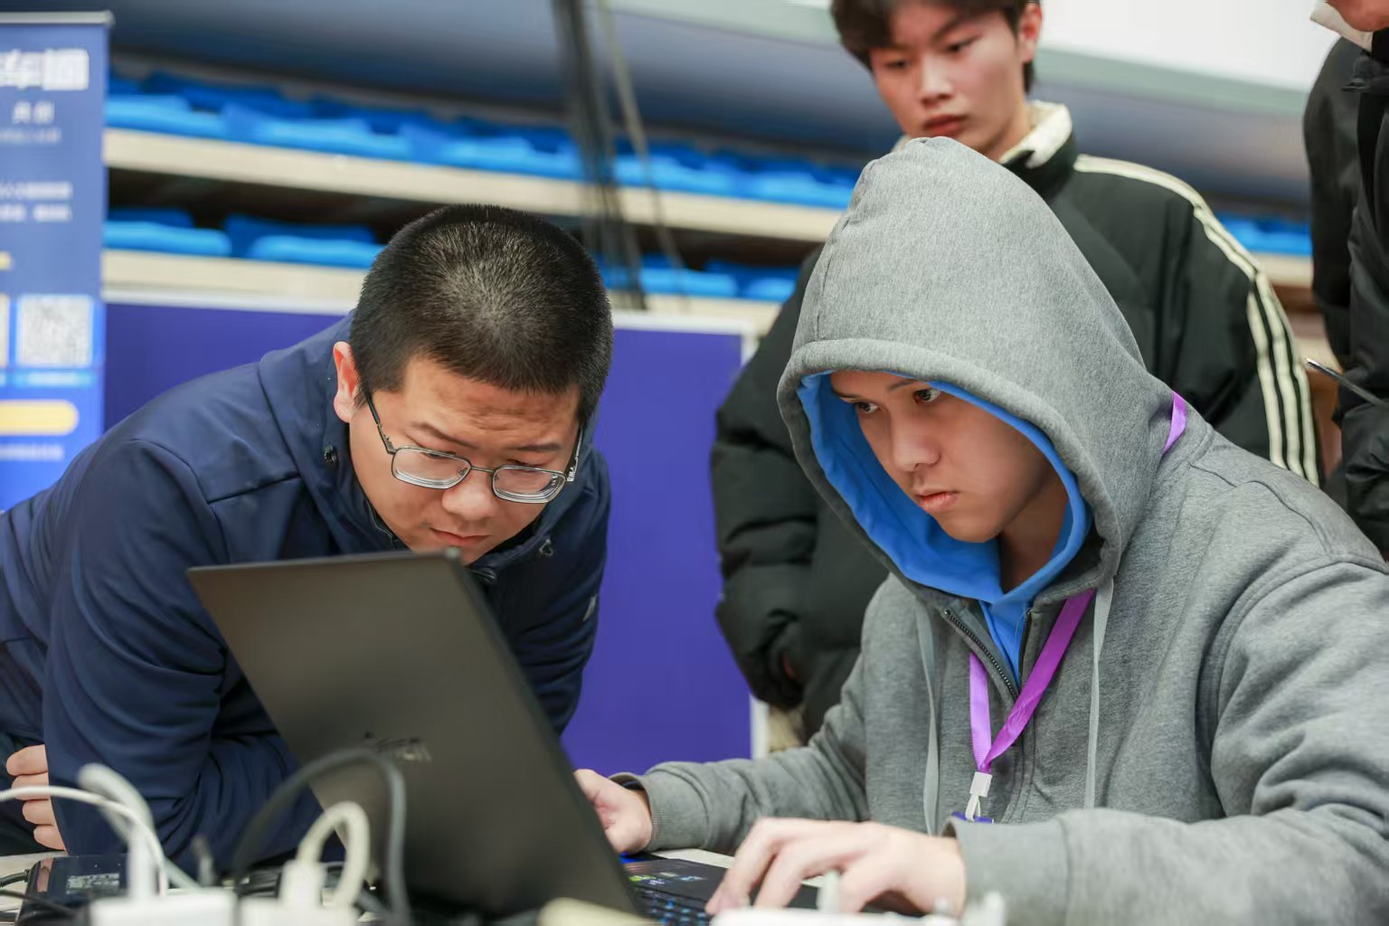
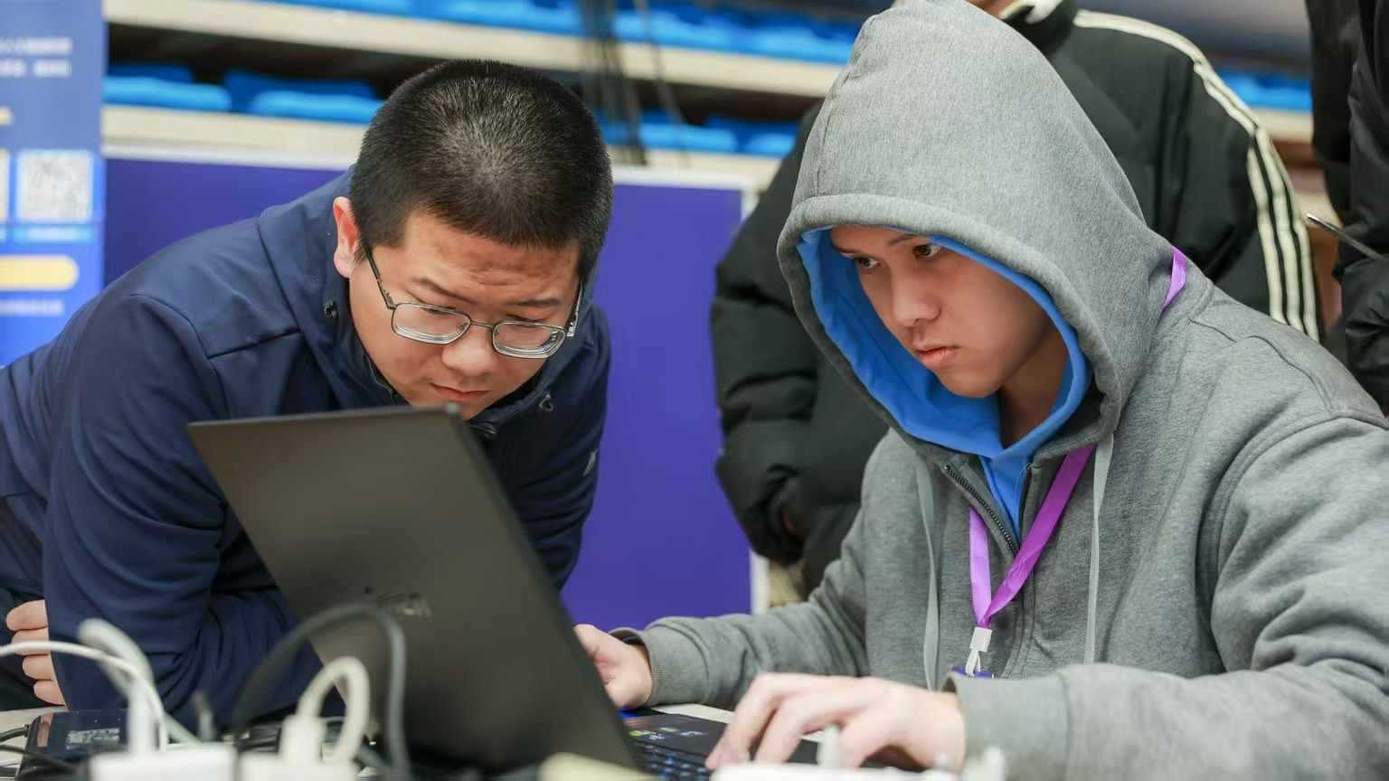
fix:更新英文；缩小图片；优化项目详情页

diff --git a/src/sections/Projects.tsx b/src/sections/Projects.tsx
@@ -91,7 +91,7 @@ const projects: Project[] = [
     subtitle: 'Autonomous Patrol Robot for Complex Environments',
     description: '集侦、识、打功能于一体的狭窄空间自主巡防机器人，优化通信协议与底盘控制。',
     descriptionEn: 'Autonomous patrol robot for narrow spaces integrating detection, recognition, and attack functions, with optimized communication protocols and chassis control.',
-    image: '/project-portfolio/project16.png',
+    image: '/project-portfolio/project16.jpg',
     tags: ['Robotics', 'STM32', 'Control Algorithm', 'Communication Protocol'],
     category: '竞赛项目',
     year: '2024',
@@ -113,7 +113,7 @@ const projects: Project[] = [
     subtitle: 'Maze Battlefield Navigation System',
     description: '基于ROS2和OpenCV的模拟哨兵机器人视觉导航系统，实现动态迷宫中的目标识别、密码破解与自主路径规划。',
     descriptionEn: 'Vision-based navigation system for simulated sentinel robots based on ROS2 and OpenCV, achieving target recognition, password cracking, and autonomous path planning in dynamic mazes.',
-    image: '/project-portfolio/project14.png',
+    image: '/project-portfolio/project14.jpg',
     tags: ['Autonomous Navigation', 'ROS2', 'Computer Vision'],
     category: '个人项目',
     year: '2025',
@@ -122,9 +122,9 @@ const projects: Project[] = [
     demoUrl: '/project-portfolio/project14-demo.mp4',
     details: {
       challenge: '在随机生成的RM迷宫战场中，哨兵机器人需在有限视野条件下完成多阶段任务：识别并击毁巡逻敌方步兵获取密码片段，通过虚拟串口按特定协议（帧头0xAA、帧尾0xBB）收发密码数据，导航至中央蓝色区域解除敌方基地无敌状态，最终摧毁基地。困难模式下视野受限且地图未知，要求实时建图与动态避障。',
-      challengeEn: 'In randomly generated RM maze battlefield, sentinel robots need to complete multi-stage tasks under limited field of view: identify and destroy patrolling enemy infantry to obtain password fragments, send and receive password data through virtual serial port according to specific protocol (frame header 0xAA, frame tail 0xBB), navigate to central blue area to解除敌方基地无敌状态, and finally destroy the base. In hard mode, field of view is limited and map is unknown, requiring real-time mapping and dynamic obstacle avoidance.',
+      challengeEn: 'In randomly generated RM maze battlefield, sentinel robots need to complete multi-stage tasks under limited field of view: identify and destroy patrolling enemy infantry to obtain password fragments, send and receive password data through virtual serial port according to specific protocol (frame header 0xAA, frame tail 0xBB), navigate to central blue area to remove the enemy base's invincibility status, and finally destroy the base. In hard mode, field of view is limited and map is unknown, requiring real-time mapping and dynamic obstacle avoidance.',
       solution: '采用分层导航架构：使用OpenCV进行视觉感知与目标识别，结合Nav2框架实现实时建图；全局路径规划采用A*算法确保最优路径，自研局部控制器处理动态避障与巡逻敌人跟踪；通过串口通信模块完成与判题机的密码交互协议，实现密码片段的自动拼接与验证；集成ROS2话题机制实现图像接收与发射控制指令的发送。',
-      solutionEn: 'Adopted hierarchical navigation architecture: used OpenCV for visual perception and target recognition, combined with Nav2 framework to achieve real-time mapping; global path planning used A* algorithm to ensure optimal path, self-developed local controller handled dynamic obstacle avoidance and patrol enemy tracking; completed password interaction protocol with judging machine through serial communication module,实现密码片段的自动拼接与验证；集成ROS2话题机制实现图像接收与发射控制指令的发送。',
+      solutionEn: 'Adopted hierarchical navigation architecture: used OpenCV for visual perception and target recognition, combined with Nav2 framework to achieve real-time mapping; global path planning used A* algorithm to ensure optimal path, self-developed local controller handled dynamic obstacle avoidance and patrol enemy tracking; completed password interaction protocol with judging machine through serial communication module, achieve automatic concatenation and verification of password fragments; integrate the ROS2 topic mechanism to enable image reception and transmission of control commands.',
       technologies: ['ROS2', 'OpenCV', 'Nav2', 'A* Algorithm', 'C++', 'Serial Communication'],
       results: '困难模式成功达成目标，实现有限视野下的实时建图与自主导航，完成敌方步兵识别、密码破解及基地摧毁全流程任务，系统稳定通过有限视野迷宫挑战。',
       resultsEn: 'Successfully achieved goals in hard mode, realized real-time mapping and autonomous navigation under limited field of view, completed full-process tasks of enemy infantry identification, password cracking, and base destruction, and the system stably passed the limited field of view maze challenge.'
@@ -136,7 +136,7 @@ const projects: Project[] = [
     subtitle: 'Synthetic Data Generation Pipeline',
     description: '基于Godot引擎的自动化训练数据集生成工具，实现赛场环境的域随机化、视觉可见性校验与无人干预的自动标注导出。',
     descriptionEn: 'Automated training dataset generation tool based on Godot engine, achieving domain randomization of赛场环境, visual visibility verification, and unmanned automatic annotation export.',
-    image: '/project-portfolio/project15.png',
+    image: '/project-portfolio/project15.jpg',
     tags: ['Godot', 'Computer Vision', 'Synthetic Data', 'Automation'],
     category: '个人项目',
     year: '2024',
@@ -203,7 +203,7 @@ const projects: Project[] = [
     subtitle: 'Phigros Auto-Play Vision System',
     description: '基于ROS2和OpenCV开发Phigros音游（模拟器）自动打歌系统，实现音符检测、判定线识别与精准点击输出。',
     descriptionEn: 'Phigros rhythm game (simulator) auto-play system developed based on ROS2 and OpenCV, achieving note detection, judgment line recognition, and precise click output.',
-    image: '/project-portfolio/project13.png',
+    image: '/project-portfolio/project13.jpg',
     tags: ['Computer Vision', 'ROS2', 'OpenCV', 'C++'],
     category: '个人项目',
     year: '2024',
@@ -230,7 +230,7 @@ const projects: Project[] = [
     category: '竞赛项目',
     year: '2024',
     githubUrl: 'https://github.com/3126872157/dian_sai',
-    demoUrl: '/project-portfolio/project9-demo.gif',
+    videoUrl: '/project-portfolio/project9-demo.gif',
     details: {
       challenge: '在嵌入式平台（STM32+OpenMV）算力受限条件下，实现复杂背景下的实时指尖检测与棋盘定位；解决棋盘任意旋转导致的格点映射失真问题；设计高鲁棒性的人机交互逻辑，应对误触、遮挡等异常场景。',
       challengeEn: 'Achieving real-time fingertip detection and chessboard positioning in complex backgrounds under limited computing power conditions of embedded platforms (STM32+OpenMV); solving grid point mapping distortion problem caused by arbitrary chessboard rotation; designing highly robust human-computer interaction logic to handle abnormal scenarios such as false touches and occlusions.',
@@ -247,7 +247,7 @@ const projects: Project[] = [
     subtitle: 'Transmission Device Design',
     description: '综合运用机械设计知识完成传动装置总体设计、传动系统计算及减速器结构设计，培养工程实践能力和创新设计意识。',
     descriptionEn: 'Comprehensive use of mechanical design knowledge to complete overall transmission device design, transmission system calculation, and reducer structure design, cultivating engineering practice ability and innovative design awareness.',
-    image: '/project-portfolio/project12.png',
+    image: '/project-portfolio/project12.jpg',
     tags: ['Mechanical Design', 'Gear Transmission', 'AutoCAD', 'Engineering Drawing'],
     category: '课程项目',
     year: '2025',
@@ -288,7 +288,7 @@ const projects: Project[] = [
     subtitle: 'High-Speed Embedded Vision for Industrial AGV',
     description: '面向工业物流场景的轻量级AGV视觉定位解决方案，在资源极度受限的嵌入式平台上实现亚毫米级色环/色块识别与动态路径校准，满足高精度码垛与低功耗运行的双重约束。',
     descriptionEn: 'Lightweight AGV visual positioning solution for industrial logistics scenarios, achieving sub-millimeter level color ring/block recognition and dynamic path calibration on extremely resource-constrained embedded platforms, meeting the dual constraints of high-precision palletizing and low-power operation.',
-    image: '/project-portfolio/project6.png',
+    image: '/project-portfolio/project6.jpg',
     tags: ['Embedded Vision', 'AGV', 'Real-time System', 'Industrial Automation'],
     category: '竞赛项目',
     year: '2024',
@@ -310,7 +310,7 @@ const projects: Project[] = [
     subtitle: 'Pneumatic Soft Inchworm Robot for 3D Locomotion',
     description: '基于波纹管差分气压驱动的仿生软体机器人，突破传统一维/二维运动限制，实现三维空间内的多自由度灵活移动，用于狭窄管道检测与环境探索。',
     descriptionEn: 'Bio-inspired soft robot based on bellows differential pneumatic drive, breaking through traditional one-dimensional/two-dimensional movement limitations, achieving multi-degree-of-freedom flexible movement in three-dimensional space, used for narrow pipe detection and environmental exploration.',
-    image: '/project-portfolio/project5.png',
+    image: '/project-portfolio/project5.jpg',
     tags: ['Soft Robotics', 'Pneumatic Actuation', 'STM32', 'Embedded Control'],
     category: '科研项目',
     year: '2023',
@@ -638,126 +638,131 @@ const Projects = () => {
 
       {/* Project Detail Dialog */}
       <Dialog open={!!selectedProject} onOpenChange={() => setSelectedProject(null)}>
-        <DialogContent className="max-w-3xl bg-[#181818] border-white/10 text-white max-h-[90vh] overflow-y-auto">
+        <DialogContent className="max-w-5xl bg-[#181818] border-white/10 text-white max-h-[90vh] overflow-hidden">
           {selectedProject && (
-            <>
-              <DialogHeader>
-                <DialogTitle className="text-2xl font-bold text-white">
-                  {language === 'zh' ? selectedProject.title : selectedProject.subtitle}
-                </DialogTitle>
-                <DialogDescription className="text-white/60">
-                  {language === 'zh' ? selectedProject.subtitle : selectedProject.title}
-                </DialogDescription>
-              </DialogHeader>
-
-              {/* Image or Video */}
-              <div className="relative h-64 rounded-xl overflow-hidden mt-4">
-                {selectedProject.videoUrl ? (
-                  selectedProject.videoUrl.includes('youtube.com') || selectedProject.videoUrl.includes('youtu.be') ? (
-                    <iframe
-                      src={`https://www.youtube.com/embed/${selectedProject.videoUrl.split('v=')[1]?.split('&')[0] || selectedProject.videoUrl.split('/').pop()}`}
-                      title={selectedProject.title}
-                      className="w-full h-full"
-                      allow="accelerometer; autoplay; clipboard-write; encrypted-media; gyroscope; picture-in-picture"
-                      allowFullScreen
-                    />
+            <div className="flex flex-col lg:flex-row gap-6 p-4">
+              {/* Left side: Image/Video */}
+              <div className="lg:w-1/2">
+                <DialogHeader className="mb-4">
+                  <DialogTitle className="text-2xl font-bold text-white">
+                    {language === 'zh' ? selectedProject.title : selectedProject.subtitle}
+                  </DialogTitle>
+                  <DialogDescription className="text-white/60">
+                    {language === 'zh' ? selectedProject.subtitle : selectedProject.title}
+                  </DialogDescription>
+                </DialogHeader>
+                
+                <div className="relative h-80 rounded-xl overflow-hidden">
+                  {selectedProject.videoUrl ? (
+                    selectedProject.videoUrl.includes('youtube.com') || selectedProject.videoUrl.includes('youtu.be') ? (
+                      <iframe
+                        src={`https://www.youtube.com/embed/${selectedProject.videoUrl.split('v=')[1]?.split('&')[0] || selectedProject.videoUrl.split('/').pop()}`}
+                        title={selectedProject.title}
+                        className="w-full h-full"
+                        allow="accelerometer; autoplay; clipboard-write; encrypted-media; gyroscope; picture-in-picture"
+                        allowFullScreen
+                      />
+                    ) : (
+                      <video
+                        src={selectedProject.videoUrl}
+                        controls
+                        autoPlay
+                        loop
+                        muted
+                        className="w-full h-full object-cover"
+                      />
+                    )
                   ) : (
-                    <video
-                      src={selectedProject.videoUrl}
-                      controls
-                      autoPlay
-                      loop
-                      muted
+                    <img
+                      src={selectedProject.image}
+                      alt={selectedProject.title}
                       className="w-full h-full object-cover"
                     />
-                  )
-                ) : (
-                  <img
-                    src={selectedProject.image}
-                    alt={selectedProject.title}
-                    className="w-full h-full object-cover"
-                  />
-                )}
-                <div className="absolute inset-0 bg-gradient-to-t from-[#181818] to-transparent" />
-                
-                {/* Meta badges */}
-                <div className="absolute bottom-4 left-4 flex gap-2">
-                  <span className="px-3 py-1 glass-card rounded-lg text-sm text-[#00a67d]">
-                    {selectedProject.category}
-                  </span>
-                  <span className="px-3 py-1 glass-card rounded-lg text-sm text-white/80">
-                    {selectedProject.year}
-                  </span>
-                </div>
-              </div>
-
-              {/* Tags */}
-              <div className="flex flex-wrap gap-2 mt-4">
-                {selectedProject.tags.map((tag, index) => (
-                  <span
-                    key={index}
-                    className="px-3 py-1 text-xs bg-[#00a67d]/20 text-[#00a67d] rounded-full"
-                  >
-                    {tag}
-                  </span>
-                ))}
-              </div>
-
-              {/* Details */}
-              <div className="space-y-6 mt-6">
-                <div>
-                  <h4 className="text-lg font-semibold text-[#00a67d] mb-2">{language === 'zh' ? '项目挑战' : 'Project Challenge'}</h4>
-                  <p className="text-white/70">{language === 'zh' ? selectedProject.details.challenge : selectedProject.details.challengeEn}</p>
-                </div>
-                <div>
-                  <h4 className="text-lg font-semibold text-[#00a67d] mb-2">{language === 'zh' ? '解决方案' : 'Solution'}</h4>
-                  <p className="text-white/70">{language === 'zh' ? selectedProject.details.solution : selectedProject.details.solutionEn}</p>
-                </div>
-                <div>
-                  <h4 className="text-lg font-semibold text-[#00a67d] mb-2">{language === 'zh' ? '技术栈' : 'Technology Stack'}</h4>
-                  <div className="flex flex-wrap gap-2">
-                    {selectedProject.details.technologies.map((tech, index) => (
-                      <span
-                        key={index}
-                        className="px-3 py-1 text-sm bg-white/5 text-white/80 rounded-lg"
-                      >
-                        {tech}
-                      </span>
-                    ))}
+                  )}
+                  <div className="absolute inset-0 bg-gradient-to-t from-[#181818] to-transparent" />
+                  
+                  {/* Meta badges */}
+                  <div className="absolute bottom-4 left-4 flex gap-2">
+                    <span className="px-3 py-1 glass-card rounded-lg text-sm text-[#00a67d]">
+                      {selectedProject.category}
+                    </span>
+                    <span className="px-3 py-1 glass-card rounded-lg text-sm text-white/80">
+                      {selectedProject.year}
+                    </span>
                   </div>
                 </div>
-                <div>
-                  <h4 className="text-lg font-semibold text-[#00a67d] mb-2">{language === 'zh' ? '项目成果' : 'Results'}</h4>
-                  <p className="text-white/70" dangerouslySetInnerHTML={{ __html: language === 'zh' ? selectedProject.details.results : selectedProject.details.resultsEn }}></p>
-                </div>
               </div>
 
-              {/* Links */}
-              <div className="flex gap-4 mt-8">
-                {selectedProject.githubUrl && (
-                  <a
-                    href={selectedProject.githubUrl}
-                    target="_blank"
-                    rel="noopener noreferrer"
-                    className="flex items-center gap-2 px-6 py-2.5 bg-white/10 hover:bg-[#00a67d]/20 rounded-lg transition-colors"
-                  >
-                    <Github className="w-4 h-4" />
-                    <span>{language === 'zh' ? '查看代码' : 'View Code'}</span>
-                  </a>
-                )}
-                {selectedProject.demoUrl && (
-                  <a
-                    href={selectedProject.demoUrl}
-                    target="_blank"
-                    rel="noopener noreferrer"
-                    className="flex items-center gap-2 px-6 py-2.5 bg-[#00a67d] hover:bg-[#00d4aa] rounded-lg transition-colors"
-                  >
-                    <ExternalLink className="w-4 h-4" />
-                    <span>{language === 'zh' ? '在线演示' : 'Online Demo'}</span>
-                  </a>
-                )}
+              {/* Right side: Content (scrollable) */}
+              <div className="lg:w-1/2 overflow-y-auto max-h-[70vh] pr-2">
+                {/* Tags */}
+                <div className="flex flex-wrap gap-2 mb-6">
+                  {selectedProject.tags.map((tag, index) => (
+                    <span
+                      key={index}
+                      className="px-3 py-1 text-xs bg-[#00a67d]/20 text-[#00a67d] rounded-full"
+                    >
+                      {tag}
+                    </span>
+                  ))}
+                </div>
+
+                {/* Details */}
+                <div className="space-y-6">
+                  <div>
+                    <h4 className="text-lg font-semibold text-[#00a67d] mb-2">{language === 'zh' ? '项目挑战' : 'Project Challenge'}</h4>
+                    <p className="text-white/70">{language === 'zh' ? selectedProject.details.challenge : selectedProject.details.challengeEn}</p>
+                  </div>
+                  <div>
+                    <h4 className="text-lg font-semibold text-[#00a67d] mb-2">{language === 'zh' ? '解决方案' : 'Solution'}</h4>
+                    <p className="text-white/70">{language === 'zh' ? selectedProject.details.solution : selectedProject.details.solutionEn}</p>
+                  </div>
+                  <div>
+                    <h4 className="text-lg font-semibold text-[#00a67d] mb-2">{language === 'zh' ? '技术栈' : 'Technology Stack'}</h4>
+                    <div className="flex flex-wrap gap-2">
+                      {selectedProject.details.technologies.map((tech, index) => (
+                        <span
+                          key={index}
+                          className="px-3 py-1 text-sm bg-white/5 text-white/80 rounded-lg"
+                        >
+                          {tech}
+                        </span>
+                      ))}
+                    </div>
+                  </div>
+                  <div>
+                    <h4 className="text-lg font-semibold text-[#00a67d] mb-2">{language === 'zh' ? '项目成果' : 'Results'}</h4>
+                    <p className="text-white/70" dangerouslySetInnerHTML={{ __html: language === 'zh' ? selectedProject.details.results : selectedProject.details.resultsEn }}></p>
+                  </div>
+                </div>
+
+                {/* Links */}
+                <div className="flex gap-4 mt-8">
+                  {selectedProject.githubUrl && (
+                    <a
+                      href={selectedProject.githubUrl}
+                      target="_blank"
+                      rel="noopener noreferrer"
+                      className="flex items-center gap-2 px-6 py-2.5 bg-white/10 hover:bg-[#00a67d]/20 rounded-lg transition-colors"
+                    >
+                      <Github className="w-4 h-4" />
+                      <span>{language === 'zh' ? '查看代码' : 'View Code'}</span>
+                    </a>
+                  )}
+                  {selectedProject.demoUrl && (
+                    <a
+                      href={selectedProject.demoUrl}
+                      target="_blank"
+                      rel="noopener noreferrer"
+                      className="flex items-center gap-2 px-6 py-2.5 bg-[#00a67d] hover:bg-[#00d4aa] rounded-lg transition-colors"
+                    >
+                      <ExternalLink className="w-4 h-4" />
+                      <span>{language === 'zh' ? '在线演示' : 'Online Demo'}</span>
+                    </a>
+                  )}
+                </div>
               </div>
-            </>
+            </div>
           )}
         </DialogContent>
       </Dialog>

diff --git a/src/sections/About.tsx b/src/sections/About.tsx
@@ -107,7 +107,7 @@ const About = () => {
                 {language === 'zh' ? '我是南航机器人工程专业的本科生，一名专注于机器人技术的实践者。从仿生机器人的粘附控制到自主导航系统的智能决策，我致力于将前沿技术转化为实用的机器人解决方案。' : 'I am an undergraduate student majoring in Robotics Engineering at Nanjing University of Aeronautics and Astronautics, a practitioner focused on robotics technology. From adhesion control of bionic robots to intelligent decision-making in autonomous navigation systems, I am committed to transforming cutting-edge technology into practical robotics solutions.'}
               </p>
               <p>
-                {language === 'zh' ? '我的专业领域涵盖机械设计、嵌入式系统、ROS2开发等。我相信优秀的机器人不仅仅是技术的堆砌，更是人机协作的完美体现。擅长将跨学科知识整合为完整的机器人解决方案——从PCB设计到SLAM算法，从底层驱动到上层决策，追求让每个模块在系统中发挥最优价值。每一个项目都是一次探索，每一次创新都推动着自我的边界。' : 'My professional fields cover mechanical design, embedded systems, ROS2 development, etc. I believe that excellent robots are not just a堆砌 of technology, but a perfect embodiment of human-machine collaboration. I excel at integrating interdisciplinary knowledge into complete robotics solutions — from PCB design to SLAM algorithms, from low-level drivers to high-level decision-making, pursuing to make each module发挥 its optimal value in the system. Every project is an exploration, and every innovation pushes the boundaries of myself.'}
+                {language === 'zh' ? '我的专业领域涵盖机械设计、嵌入式系统、ROS2开发等。我相信优秀的机器人不仅仅是技术的堆砌，更是人机协作的完美体现。擅长将跨学科知识整合为完整的机器人解决方案——从PCB设计到SLAM算法，从底层驱动到上层决策，追求让每个模块在系统中发挥最优价值。每一个项目都是一次探索，每一次创新都推动着自我的边界。' : 'My professional fields cover mechanical design, embedded systems, ROS2 development, etc. I believe that excellent robots are not just a pile of technology, but a perfect embodiment of human-machine collaboration. I excel at integrating interdisciplinary knowledge into complete robotics solutions — from PCB design to SLAM algorithms, from low-level drivers to high-level decision-making, pursuing to make each module realize its optimal value in the system. Every project is an exploration, and every innovation pushes the boundaries of myself.'}
               </p>
             </div>
 

diff --git a/src/sections/Blog.tsx b/src/sections/Blog.tsx
@@ -65,7 +65,7 @@ const blogPosts: BlogPost[] = [
     titleEn: 'Vision Team Newcomer Handbook',
     excerpt: '第十章初步介绍导航，包括机器人导航基础、SLAM算法、路径规划等内容。',
     excerptEn: 'Chapter 10 introduces navigation, including robot navigation basics, SLAM algorithms, path planning, etc.',
-    image: '/project-portfolio/blog4.png',
+    image: '/project-portfolio/blog4.jpg',
     date: '2025-05-05',
     readTime: '20分钟',
     readTimeEn: '20 min',

diff --git a/src/sections/Navigation.tsx b/src/sections/Navigation.tsx
@@ -54,8 +54,8 @@ const Navigation = () => {
               }}
               className="text-xl font-bold text-white"
             >
-              {language === 'zh' ? '李沐' : 'Li Muy'}
-              <span className="text-gradient">{language === 'zh' ? '远' : 'uan'}</span>
+              {language === 'zh' ? '李沐' : 'Muyuan'}
+              <span className="text-gradient">{language === 'zh' ? '远' : 'Li'}</span>
             </a>
 
             {/* Desktop nav */}
